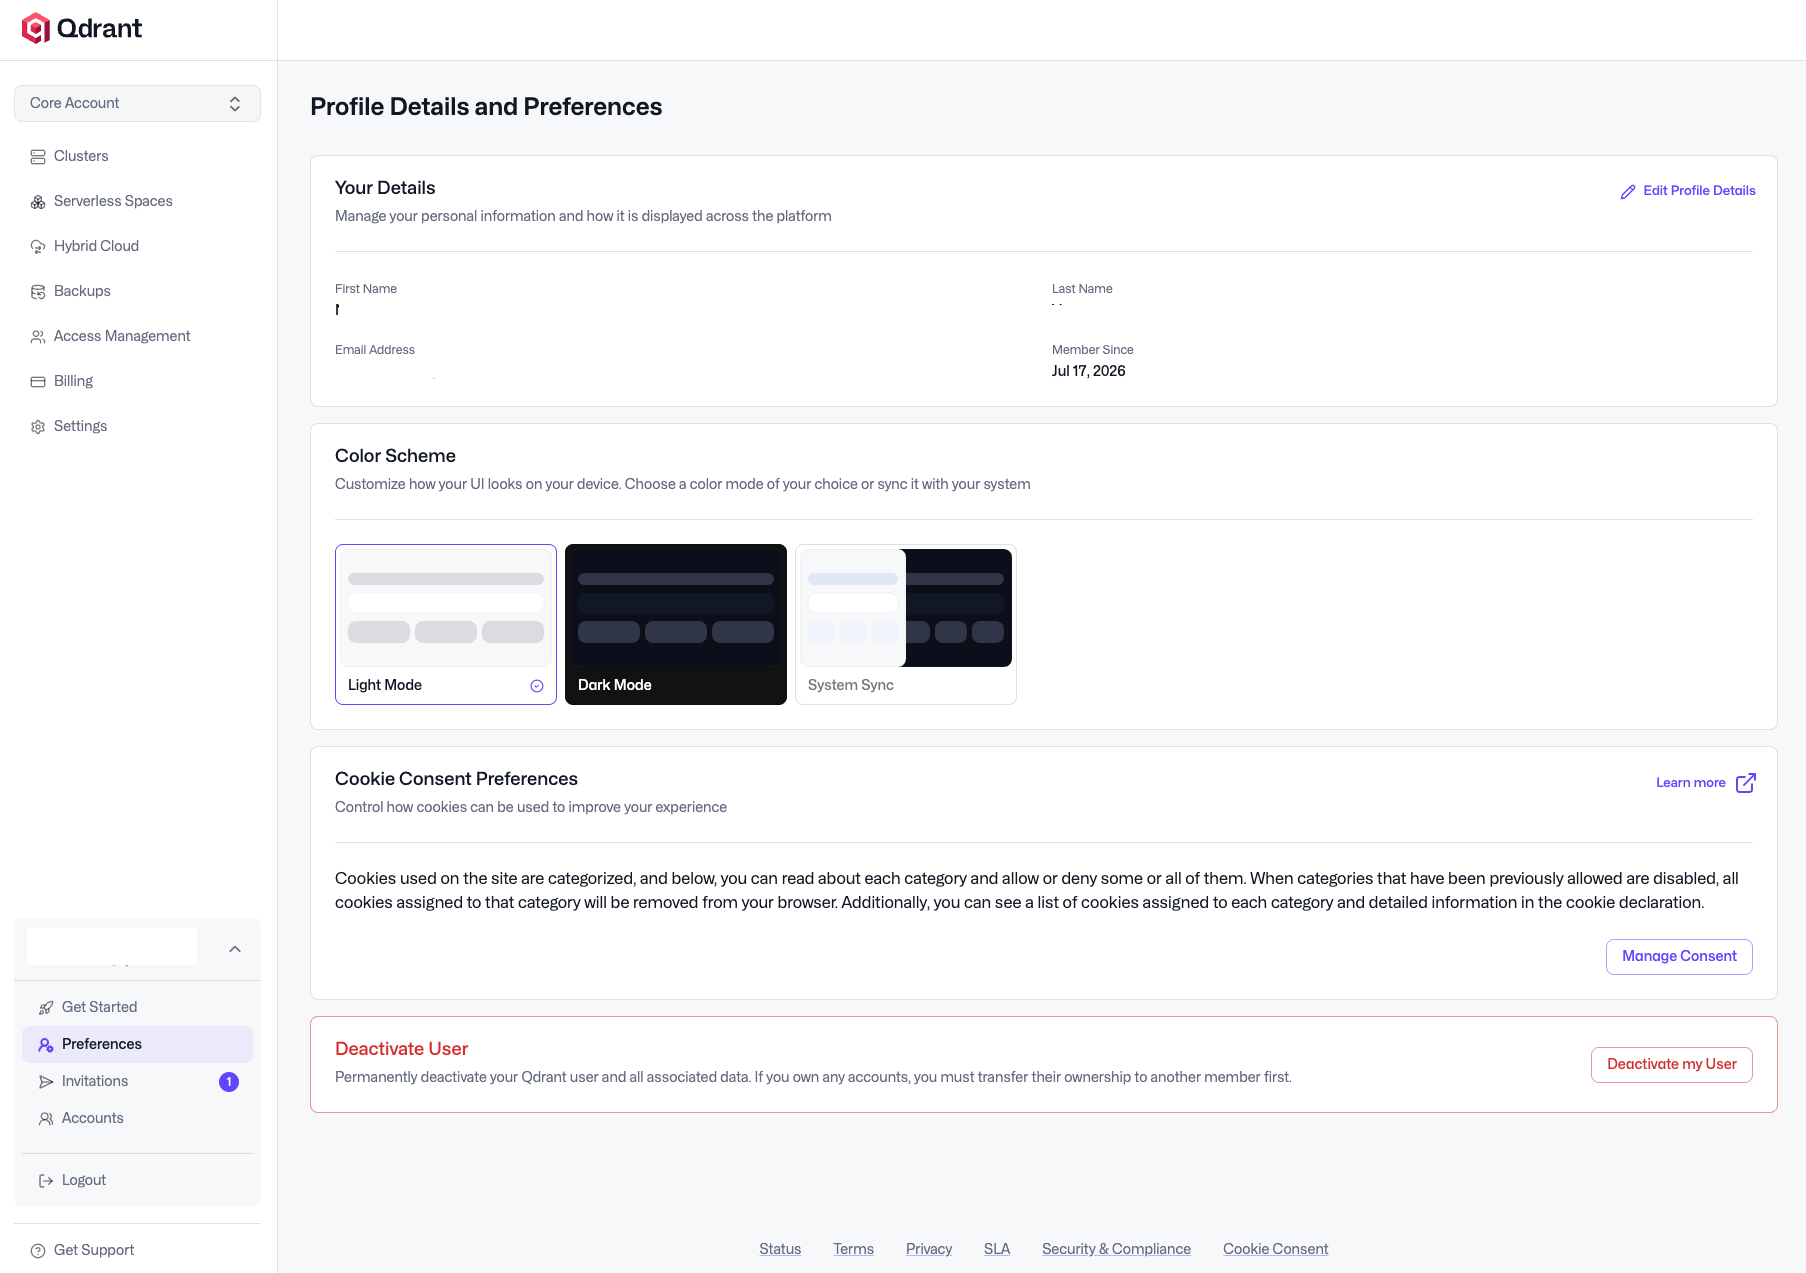
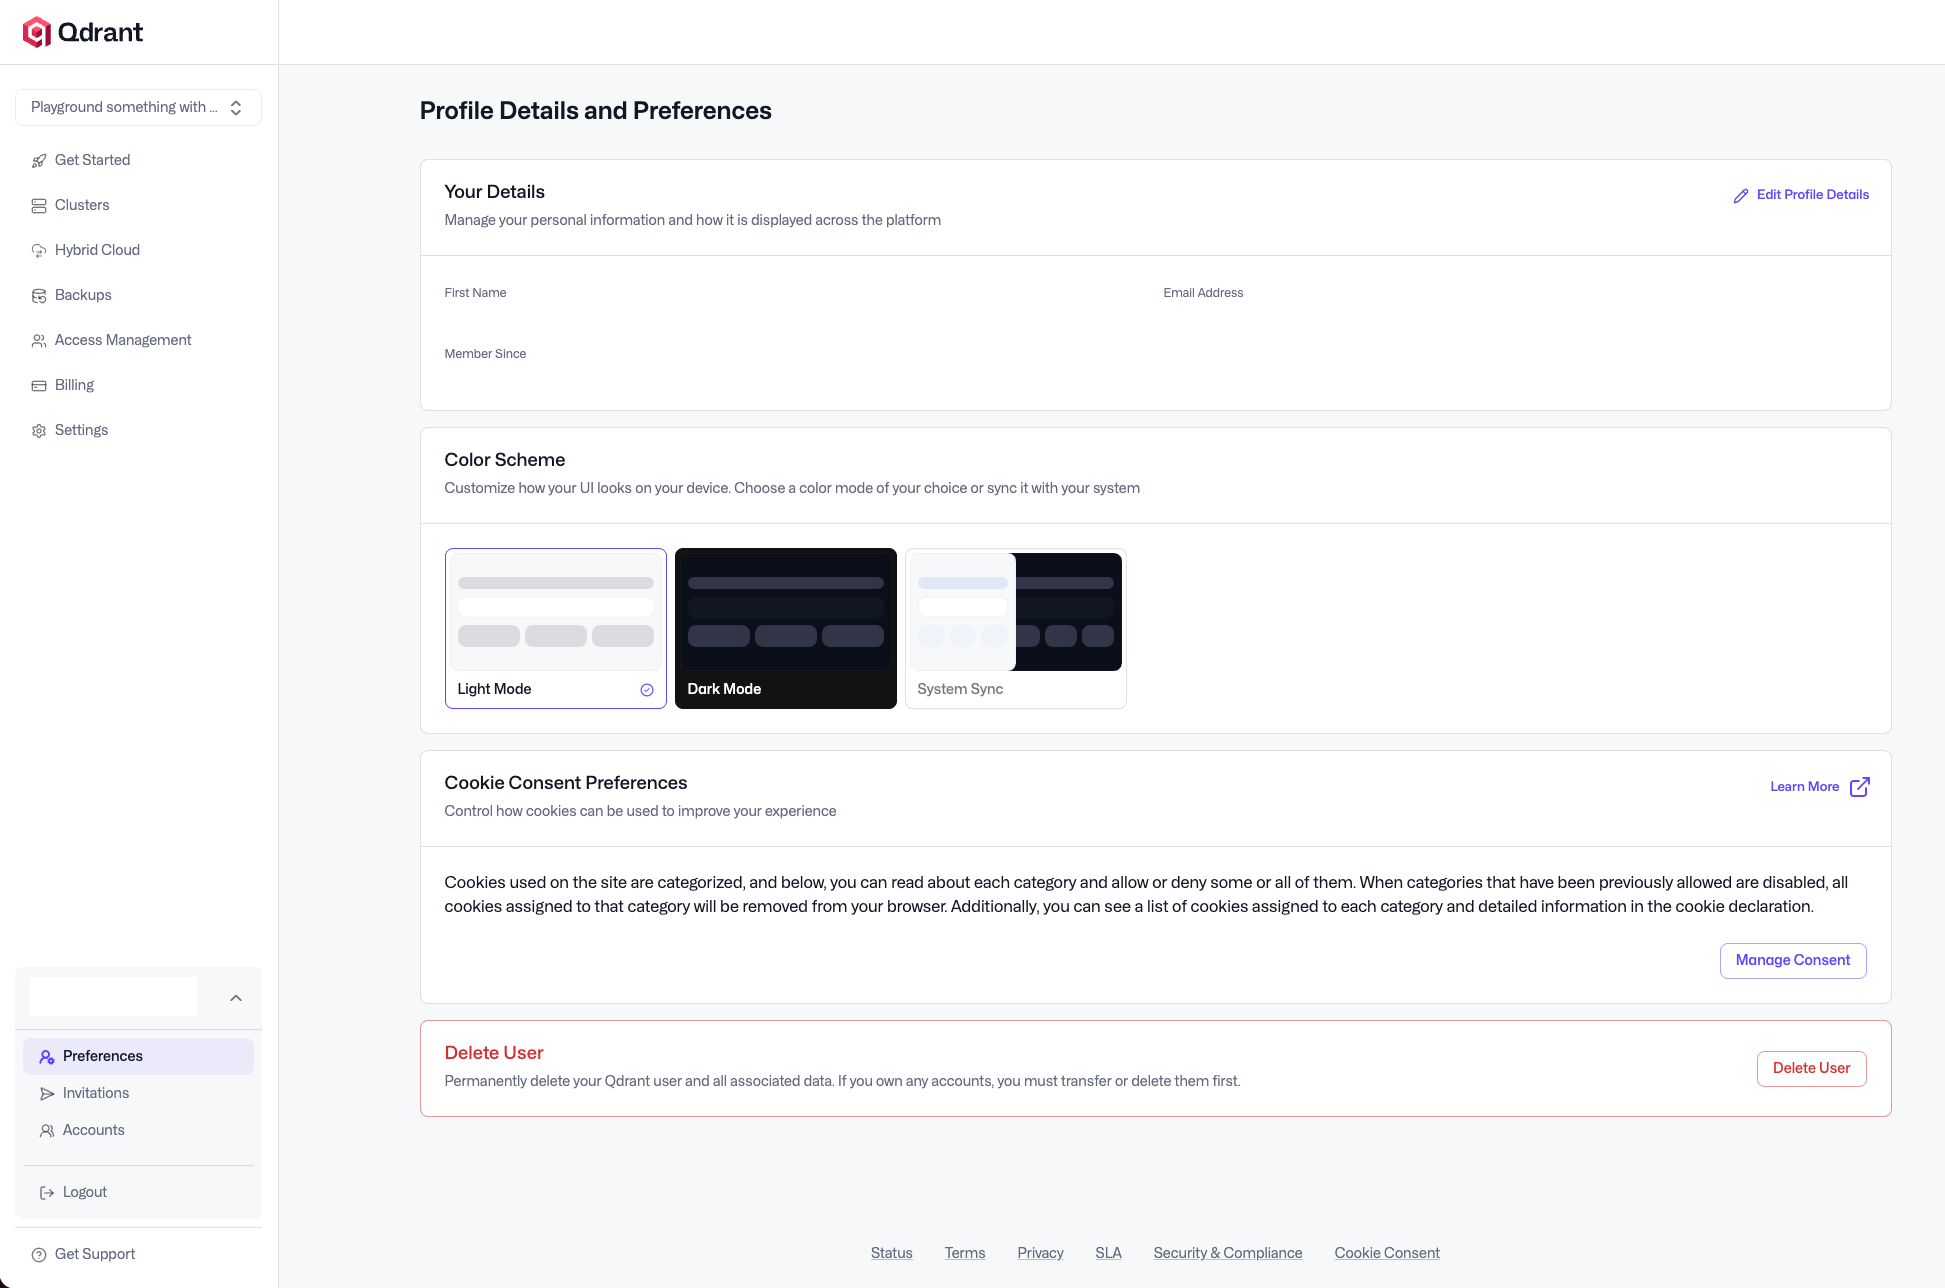
Add documentation for new User delete changes

diff --git a/qdrant-landing/content/documentation/cloud-user-profile.md b/qdrant-landing/content/documentation/cloud-user-profile.md
@@ -1,7 +1,7 @@
 ---
 title: User Profile
-short_description: "Manage your Qdrant Cloud user profile: profile details, color scheme, cookie consent, account invitations, and deactivation."
-description: "Manage your personal Qdrant Cloud user profile — profile details, appearance and color scheme, cookie consent, pending account invitations and user deactivation."
+short_description: "Manage your Qdrant Cloud user profile: profile details, color scheme, cookie consent, account invitations, and user deletion."
+description: "Manage your personal Qdrant Cloud user profile — profile details, appearance and color scheme, cookie consent, pending account invitations and user deletion."
 weight: 212
 partition: deploy
 ---
@@ -48,8 +48,12 @@ When someone invites you to their account, the invitation appears on your **Invi
 
 > **Note:** This page is for invitations *you* have received. To invite other users to an account you manage, use the **Access Management** page instead. See [Inviting Users to an Account](/documentation/cloud-rbac/user-management/#inviting-users-to-an-account).
 
-## Deactivate User
+## Delete User
 
-Use **Deactivate my User** on the **Preferences** page to permanently deactivate your Qdrant user and all associated data. If you own any accounts, you must first [transfer their ownership](/documentation/cloud-account-setup/#transferring-account-ownership) to another member or delete them.
+Use **Delete User** on the **Preferences** page to permanently delete your Qdrant user and all associated data. A deleted user cannot be restored.
 
-![Deactivate user](/documentation/cloud/deactivate-user.png)
+* **No accounts:** you are asked to type your email address to confirm the deletion.
+* **Owner of one or more accounts:** for each account you own, choose to [transfer its ownership](/documentation/cloud-account-setup/#transferring-account-ownership) to another member or delete it. Then type your email address to confirm.
+* **Member of other accounts:** you leave those accounts automatically when your user is deleted. You are still asked to type your email address to confirm.
+
+![Delete user](/documentation/cloud/deactivate-user.png)
